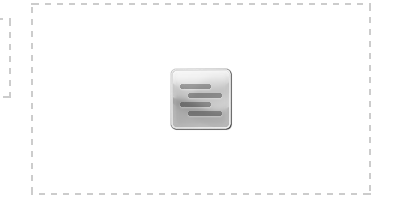
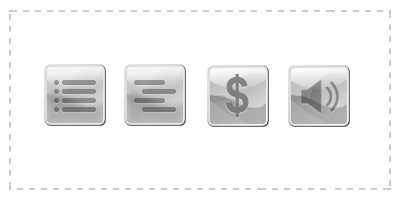
Updated thumbnails for 1.5 release features. Removed trailing periods from tag lines.

diff --git a/_posts/2014-01-20-acl-packager.md b/_posts/2014-01-20-acl-packager.md
@@ -1,9 +1,9 @@
 ---
 layout: feature
 title: ACL Packager
-description: Easily zip up access control entries.
+description: Easily zip up access control entries
 date: 2014-01-20 23:39:29
-thumbnail: /images/default/thumbnail.png
+thumbnail: /images/acl-packager/thumbnail.png
 categories: features
 initial-release: 1.5.0
 tags: new

diff --git a/_posts/2014-01-10-syslog-appender.md b/_posts/2014-01-10-syslog-appender.md
@@ -1,9 +1,9 @@
 ---
 layout: feature
 title: Syslog Integration
-description: Send log messages to remote systems.
+description: Send log messages to remote systems
 date: 2014-01-10 23:39:29
-thumbnail: /images/default/thumbnail.png
+thumbnail: /images/syslog/thumbnail.png
 categories: features
 initial-release: 1.5.0
 tags: new

diff --git a/_posts/2014-01-03-placeholders.md b/_posts/2014-01-03-placeholders.md
@@ -1,7 +1,7 @@
 ---
 layout: feature
 title: Component Placeholders
-description: Improve your components with better placeholders.
+description: A little polish goes a long way
 date: 2014-01-10 23:39:29
 thumbnail: /images/placeholders/thumbnail.png
 categories: features
